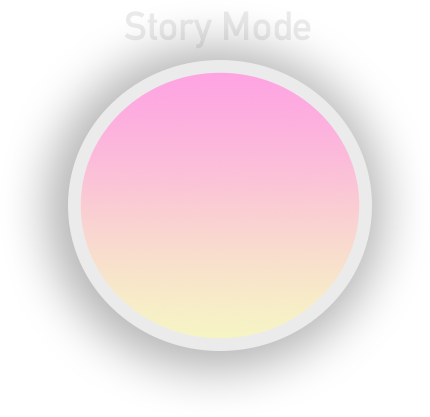
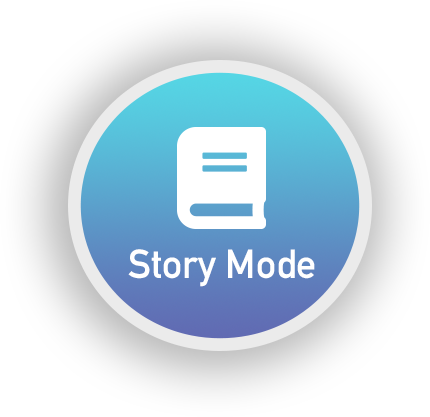
Update Main Menu
Added icons

diff --git a/Main Menu/main.css b/Main Menu/main.css
@@ -27,20 +27,16 @@ body {
     height: 10%;
 }
 
-#exit {
-    float:left;  
-}
-
 #BGmusic {
     float: right;
 }
 
 #title { 
-    width: 48%;
+    width: 55%;
     margin-top: 0;
     margin-left: auto;
     margin-right: auto;
-    margin-bottom: 2.5%;
+    margin-bottom: 1%;
     
 }
 
@@ -61,7 +57,7 @@ body {
 }
 
 .button {
-opacity: .8;
+opacity: .9;
 }
 
 .button:hover {

diff --git a/Main Menu/index.html b/Main Menu/index.html
@@ -8,7 +8,7 @@
     </head>
     <body>
    <div id="header">
-   <img id="exit" alt="exit" src="placeholder.png" />
+ 
    <img id="BGmusic" alt="toggle background music" src="placeholder.png" />
    </div>
         
